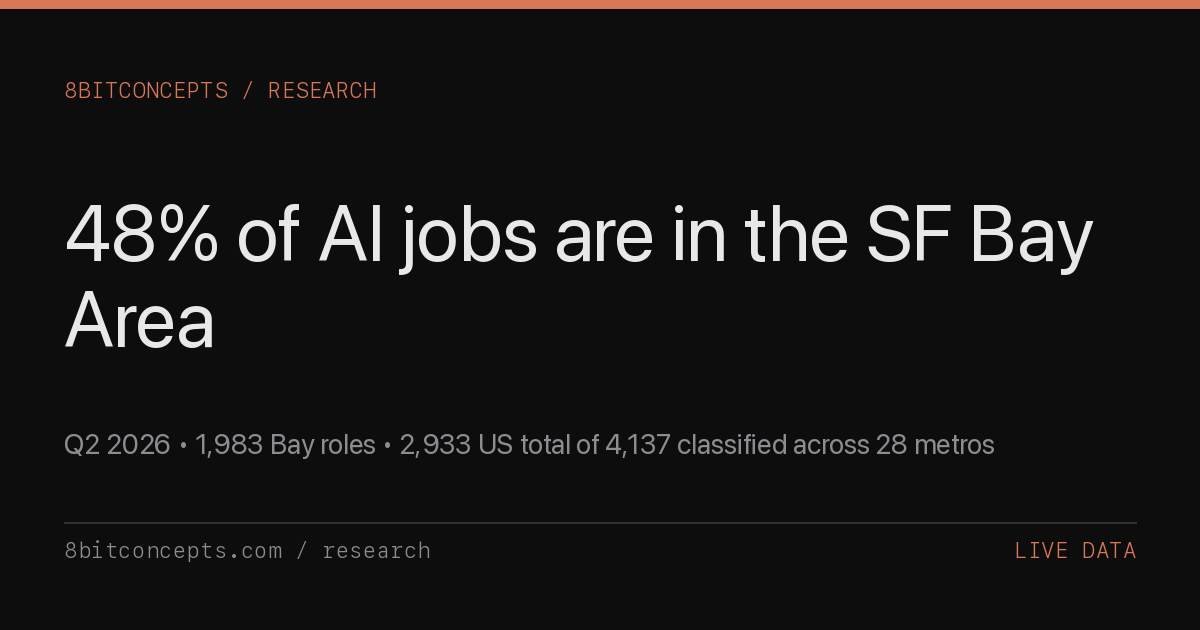
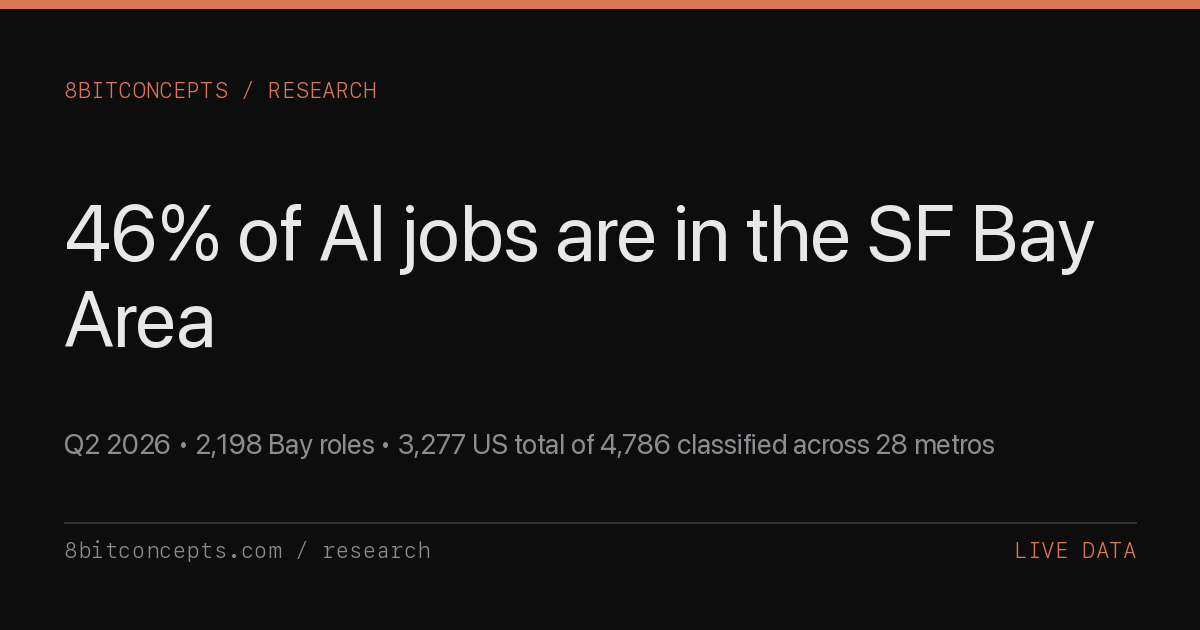
hiring-geography: auto-regenerate 2026-08-10

diff --git a/research/q2-2026-ai-hiring-geography.html b/research/q2-2026-ai-hiring-geography.html
@@ -5,11 +5,11 @@
   <meta name="viewport" content="width=device-width, initial-scale=1.0" />
   <meta name="referrer" content="strict-origin-when-cross-origin" />
   <meta name="color-scheme" content="dark light" />
-  <meta name="last-updated" content="2026-08-03" />
+  <meta name="last-updated" content="2026-08-10" />
   <title>Q2 2026 AI Hiring by Geography -- 8bitconcepts</title>
-  <meta name="description" content="Live analysis: 71% of AI/ML roles are in the US, 48% in SF Bay Area alone. European AI salaries within 3% of US median ($248,520 vs $246,494). Top 15 cities by AI role count, regional salary, remote vs onsite mix. Auto-regenerated weekly." />
+  <meta name="description" content="Live analysis: 68% of AI/ML roles are in the US, 46% in SF Bay Area alone. European AI salaries within 3% of US median ($248,520 vs $246,744). Top 15 cities by AI role count, regional salary, remote vs onsite mix. Auto-regenerated weekly." />
   <meta property="og:title" content="Q2 2026 AI Hiring by Geography -- 8bitconcepts" />
-  <meta property="og:description" content="71% of AI/ML roles are US-based. 48% in SF Bay Area. Europe AI pay within 3% of US median. 4,137 classified postings, 2026-08-03." />
+  <meta property="og:description" content="68% of AI/ML roles are US-based. 46% in SF Bay Area. Europe AI pay within 3% of US median. 4,786 classified postings, 2026-08-10." />
   <meta property="og:type" content="article" />
   <meta property="og:url" content="https://8bitconcepts.com/research/q2-2026-ai-hiring-geography.html" />
   <meta property="og:image" content="https://8bitconcepts.com/research/og/q2-2026-ai-hiring-geography.png" />
@@ -17,7 +17,7 @@
   <meta property="og:image:height" content="630" />
   <meta name="twitter:card" content="summary_large_image" />
   <meta name="twitter:title" content="Q2 2026 AI Hiring by Geography" />
-  <meta name="twitter:description" content="48% of AI/ML jobs are in the SF Bay Area. Europe pays within 3% of US median. 2026-08-03." />
+  <meta name="twitter:description" content="46% of AI/ML jobs are in the SF Bay Area. Europe pays within 3% of US median. 2026-08-10." />
   <meta name="twitter:image" content="https://8bitconcepts.com/research/og/q2-2026-ai-hiring-geography.png" />
   <link rel="canonical" href="https://8bitconcepts.com/research/q2-2026-ai-hiring-geography.html" />
   <link rel="preconnect" href="https://fonts.googleapis.com" />
@@ -478,10 +478,10 @@
     "@context": "https://schema.org",
     "@type": "Article",
     "headline": "Q2 2026 AI Hiring by Geography",
-    "description": "Live analysis of AI engineering hiring by geography from aidevboard.com: top cities, regional salary premiums, the SF/Bay Area concentration, Europe vs US salary gap, remote-vs-city mix, and actionable takeaways for job seekers and hiring managers. Across 4,137 classified postings.",
+    "description": "Live analysis of AI engineering hiring by geography from aidevboard.com: top cities, regional salary premiums, the SF/Bay Area concentration, Europe vs US salary gap, remote-vs-city mix, and actionable takeaways for job seekers and hiring managers. Across 4,786 classified postings.",
     "url": "https://8bitconcepts.com/research/q2-2026-ai-hiring-geography.html",
     "datePublished": "2026-04-17",
-    "dateModified": "2026-08-03",
+    "dateModified": "2026-08-10",
     "author": {"@type": "Organization", "name": "8bitconcepts", "url": "https://8bitconcepts.com"},
     "publisher": {"@type": "Organization", "name": "8bitconcepts", "url": "https://8bitconcepts.com"},
     "image": "https://8bitconcepts.com/research/og/q2-2026-ai-hiring-geography.png",
@@ -521,10 +521,10 @@
 
     <h1>Q2 2026 AI Hiring by Geography</h1>
 
-    <p class="subtitle">Live geographic breakdown of 4,137 location-classified AI/ML engineering roles. 71% US &mdash; 48% in the Bay Area alone. Europe pays within 3% of US median. Data derived from <a href="https://aidevboard.com/api/v1/jobs">aidevboard.com/api/v1/jobs</a>.</p>
+    <p class="subtitle">Live geographic breakdown of 4,786 location-classified AI/ML engineering roles. 68% US &mdash; 46% in the Bay Area alone. Europe pays within 3% of US median. Data derived from <a href="https://aidevboard.com/api/v1/jobs">aidevboard.com/api/v1/jobs</a>.</p>
 
     <div class="meta">
-      <span class="meta-date">2026-08-03</span>
+      <span class="meta-date">2026-08-10</span>
       <span class="meta-tag">Live Data</span>
       <span class="meta-read">~850 words</span>
     </div>
@@ -533,26 +533,26 @@
 
       <h2>Executive summary</h2>
 
-      <p><strong>71%</strong> of 4,137 location-classified AI/ML engineering roles are in the US &mdash; but European AI salaries run within 3% of US median ($248,520 vs $246,494 average for disclosed postings). <strong>48%</strong> of the whole index is concentrated in the San Francisco Bay Area alone (1,983 roles across 226 companies &mdash; Anthropic, OpenAI, Meta, Scale AI, Applied Intuition, Waymo). Remote-friendly postings are 12% of the market. Geography is destiny for AI supply; for salary it's less so.</p>
+      <p><strong>68%</strong> of 4,786 location-classified AI/ML engineering roles are in the US &mdash; but European AI salaries run within 3% of US median ($248,520 vs $246,744 average for disclosed postings). <strong>46%</strong> of the whole index is concentrated in the San Francisco Bay Area alone (2,198 roles across 228 companies &mdash; Anthropic, OpenAI, Meta, Scale AI, Applied Intuition, Waymo). Remote-friendly postings are 12% of the market. Geography is destiny for AI supply; for salary it's less so.</p>
 
       <div class="stat-row">
         <div class="stat-box">
-          <div class="stat-num">71%</div>
-          <div class="stat-label">of classified AI/ML roles are in the US (2,933 of 4,137)</div>
+          <div class="stat-num">68%</div>
+          <div class="stat-label">of classified AI/ML roles are in the US (3,277 of 4,786)</div>
         </div>
         <div class="stat-box">
-          <div class="stat-num">48%</div>
-          <div class="stat-label">of the entire index is in SF Bay Area (1,983 roles)</div>
+          <div class="stat-num">46%</div>
+          <div class="stat-label">of the entire index is in SF Bay Area (2,198 roles)</div>
         </div>
         <div class="stat-box">
-          <div class="stat-num">+0.8%</div>
+          <div class="stat-num">+0.7%</div>
           <div class="stat-label">Europe vs US average salary (disclosed postings only)</div>
         </div>
       </div>
 
       <h2>The top cities</h2>
 
-      <p>Across the 4,137 location-classified AI/ML engineering postings, the top 15 metros look like this. Role count, distinct company count, and average disclosed salary for each.</p>
+      <p>Across the 4,786 location-classified AI/ML engineering postings, the top 15 metros look like this. Role count, distinct company count, and average disclosed salary for each.</p>
 
       <table class="data-table">
         <thead>
@@ -567,21 +567,21 @@
           </tr>
         </thead>
         <tbody>
-          <tr><td>San Francisco Bay Area</td><td>US-West</td><td class="num">1,983</td><td class="num">47.9%</td><td class="num">226</td><td class="num">$263,883</td><td class="num">1,489</td></tr>
-          <tr><td>New York</td><td>US-East</td><td class="num">487</td><td class="num">11.8%</td><td class="num">107</td><td class="num">$228,418</td><td class="num">385</td></tr>
-          <tr><td>Remote (US)</td><td>Remote</td><td class="num">329</td><td class="num">8.0%</td><td class="num">83</td><td class="num">$219,098</td><td class="num">288</td></tr>
-          <tr><td>London</td><td>Europe</td><td class="num">207</td><td class="num">5.0%</td><td class="num">53</td><td class="num">$249,307</td><td class="num">14</td></tr>
-          <tr><td>Remote (Global)</td><td>Remote</td><td class="num">162</td><td class="num">3.9%</td><td class="num">54</td><td class="num">$206,498</td><td class="num">114</td></tr>
-          <tr><td>Boston</td><td>US-East</td><td class="num">159</td><td class="num">3.8%</td><td class="num">19</td><td class="num">$200,716</td><td class="num">151</td></tr>
-          <tr><td>Seattle</td><td>US-West</td><td class="num">131</td><td class="num">3.2%</td><td class="num">36</td><td class="num">$199,636</td><td class="num">109</td></tr>
-          <tr><td>Bangalore</td><td>APAC</td><td class="num">98</td><td class="num">2.4%</td><td class="num">31</td><td class="num">&mdash;</td><td class="num">0</td></tr>
-          <tr><td>Toronto</td><td>Canada</td><td class="num">83</td><td class="num">2.0%</td><td class="num">23</td><td class="num">$209,207</td><td class="num">44</td></tr>
-          <tr><td>Austin</td><td>US-South</td><td class="num">70</td><td class="num">1.7%</td><td class="num">20</td><td class="num">$191,658</td><td class="num">48</td></tr>
-          <tr><td>Singapore</td><td>APAC</td><td class="num">59</td><td class="num">1.4%</td><td class="num">23</td><td class="num">$205,000</td><td class="num">3</td></tr>
-          <tr><td>Paris</td><td>Europe</td><td class="num">56</td><td class="num">1.4%</td><td class="num">11</td><td class="num">&mdash;</td><td class="num">0</td></tr>
-          <tr><td>Washington DC</td><td>US-East</td><td class="num">44</td><td class="num">1.1%</td><td class="num">17</td><td class="num">$216,958</td><td class="num">37</td></tr>
-          <tr><td>Amsterdam</td><td>Europe</td><td class="num">38</td><td class="num">0.9%</td><td class="num">6</td><td class="num">&mdash;</td><td class="num">0</td></tr>
-          <tr><td>Berlin</td><td>Europe</td><td class="num">36</td><td class="num">0.9%</td><td class="num">12</td><td class="num">$237,500</td><td class="num">1</td></tr>
+          <tr><td>San Francisco Bay Area</td><td>US-West</td><td class="num">2,198</td><td class="num">45.9%</td><td class="num">228</td><td class="num">$264,575</td><td class="num">1,472</td></tr>
+          <tr><td>New York</td><td>US-East</td><td class="num">560</td><td class="num">11.7%</td><td class="num">117</td><td class="num">$228,418</td><td class="num">385</td></tr>
+          <tr><td>Remote (US)</td><td>Remote</td><td class="num">352</td><td class="num">7.4%</td><td class="num">87</td><td class="num">$219,098</td><td class="num">288</td></tr>
+          <tr><td>London</td><td>Europe</td><td class="num">279</td><td class="num">5.8%</td><td class="num">68</td><td class="num">$249,307</td><td class="num">14</td></tr>
+          <tr><td>Remote (Global)</td><td>Remote</td><td class="num">230</td><td class="num">4.8%</td><td class="num">67</td><td class="num">$206,096</td><td class="num">113</td></tr>
+          <tr><td>Boston</td><td>US-East</td><td class="num">169</td><td class="num">3.5%</td><td class="num">20</td><td class="num">$199,955</td><td class="num">152</td></tr>
+          <tr><td>Seattle</td><td>US-West</td><td class="num">134</td><td class="num">2.8%</td><td class="num">37</td><td class="num">$199,636</td><td class="num">109</td></tr>
+          <tr><td>Bangalore</td><td>APAC</td><td class="num">126</td><td class="num">2.6%</td><td class="num">39</td><td class="num">&mdash;</td><td class="num">0</td></tr>
+          <tr><td>Austin</td><td>US-South</td><td class="num">102</td><td class="num">2.1%</td><td class="num">23</td><td class="num">$191,658</td><td class="num">48</td></tr>
+          <tr><td>Toronto</td><td>Canada</td><td class="num">94</td><td class="num">2.0%</td><td class="num">26</td><td class="num">$209,207</td><td class="num">44</td></tr>
+          <tr><td>Singapore</td><td>APAC</td><td class="num">84</td><td class="num">1.8%</td><td class="num">27</td><td class="num">$205,000</td><td class="num">3</td></tr>
+          <tr><td>Munich</td><td>Europe</td><td class="num">51</td><td class="num">1.1%</td><td class="num">7</td><td class="num">&mdash;</td><td class="num">0</td></tr>
+          <tr><td>Washington DC</td><td>US-East</td><td class="num">50</td><td class="num">1.0%</td><td class="num">18</td><td class="num">$216,958</td><td class="num">37</td></tr>
+          <tr><td>Amsterdam</td><td>Europe</td><td class="num">50</td><td class="num">1.0%</td><td class="num">7</td><td class="num">&mdash;</td><td class="num">0</td></tr>
+          <tr><td>Hyderabad</td><td>APAC</td><td class="num">50</td><td class="num">1.0%</td><td class="num">4</td><td class="num">&mdash;</td><td class="num">0</td></tr>
         </tbody>
       </table>
 
@@ -593,27 +593,27 @@
         <div class="bar-row">
           <div class="bar-label">US</div>
           <div class="bar-wrap"><div class="bar" style="width:100.0%;"></div></div>
-          <div class="bar-value">2,933</div>
+          <div class="bar-value">3,277</div>
         </div>
         <div class="bar-row">
           <div class="bar-label">Europe</div>
-          <div class="bar-wrap"><div class="bar" style="width:13.3%;"></div></div>
-          <div class="bar-value">390</div>
+          <div class="bar-wrap"><div class="bar" style="width:15.6%;"></div></div>
+          <div class="bar-value">510</div>
         </div>
         <div class="bar-row">
           <div class="bar-label">Canada</div>
-          <div class="bar-wrap"><div class="bar" style="width:3.7%;"></div></div>
-          <div class="bar-value">109</div>
+          <div class="bar-wrap"><div class="bar" style="width:3.6%;"></div></div>
+          <div class="bar-value">119</div>
         </div>
         <div class="bar-row">
           <div class="bar-label">APAC</div>
-          <div class="bar-wrap"><div class="bar" style="width:7.3%;"></div></div>
-          <div class="bar-value">214</div>
+          <div class="bar-wrap"><div class="bar" style="width:9.1%;"></div></div>
+          <div class="bar-value">298</div>
         </div>
         <div class="bar-row">
           <div class="bar-label">Remote</div>
-          <div class="bar-wrap"><div class="bar" style="width:16.7%;"></div></div>
-          <div class="bar-value">491</div>
+          <div class="bar-wrap"><div class="bar" style="width:17.8%;"></div></div>
+          <div class="bar-value">582</div>
         </div>
       </div>
 
@@ -623,15 +623,15 @@
 
       <h2>The SF / Bay Area hub</h2>
 
-      <p>The San Francisco Bay Area alone accounts for 48% of the classified market &mdash; 1,983 AI/ML roles across 226 companies. Average disclosed salary there: $263,883. NYC is a distant second at 12% (487 roles, $228,418). Every other US metro sits in single digits. This is <em>more concentrated</em> than the general-software geography, not less &mdash; despite ten years of &quot;everyone going remote,&quot; the AI frontier is more location-bound today than it was pre-pandemic.</p>
+      <p>The San Francisco Bay Area alone accounts for 46% of the classified market &mdash; 2,198 AI/ML roles across 228 companies. Average disclosed salary there: $264,575. NYC is a distant second at 12% (560 roles, $228,418). Every other US metro sits in single digits. This is <em>more concentrated</em> than the general-software geography, not less &mdash; despite ten years of &quot;everyone going remote,&quot; the AI frontier is more location-bound today than it was pre-pandemic.</p>
 
       <h2>Europe vs US salary gap</h2>
 
-      <p>The European AI market is small but high-quality: 9% of the classified index (390 roles). Average disclosed salary $248,520 vs $246,494 for US &mdash; a gap of <strong>+0.8%</strong>. The standard narrative (&quot;European tech pays 40-60% below US&quot;) under-reads what the AI subsegment pays specifically: frontier labs pay close to parity to win ML talent, and the top band in London / Zurich / Dublin is not meaningfully lower than top-band NYC for equivalent roles. The gap widens in the mid-market, not at the top.</p>
+      <p>The European AI market is small but high-quality: 11% of the classified index (510 roles). Average disclosed salary $248,520 vs $246,744 for US &mdash; a gap of <strong>+0.7%</strong>. The standard narrative (&quot;European tech pays 40-60% below US&quot;) under-reads what the AI subsegment pays specifically: frontier labs pay close to parity to win ML talent, and the top band in London / Zurich / Dublin is not meaningfully lower than top-band NYC for equivalent roles. The gap widens in the mid-market, not at the top.</p>
 
       <h2>Remote-vs-city mix</h2>
 
-      <p>Advertised remote AI/ML roles sit at 12% of the geographically-classified sample (491 of 4,137). Average salary for those remote postings: $215,525. This is consistent with the broader pattern in <a href="/research/q2-2026-remote-vs-onsite-ai-hiring.html">our workplace analysis</a>: remote is structural but not dominant &mdash; AI/ML engineering has stayed more onsite-heavy than general software, because GPU access, data-residency requirements, and in-person research-team density still matter.</p>
+      <p>Advertised remote AI/ML roles sit at 12% of the geographically-classified sample (582 of 4,786). Average salary for those remote postings: $215,434. This is consistent with the broader pattern in <a href="/research/q2-2026-remote-vs-onsite-ai-hiring.html">our workplace analysis</a>: remote is structural but not dominant &mdash; AI/ML engineering has stayed more onsite-heavy than general software, because GPU access, data-residency requirements, and in-person research-team density still matter.</p>
 
       <h2>Why the concentration exists</h2>
 
@@ -643,7 +643,7 @@
 
       <h2>Methodology</h2>
 
-      <p>Generated by paginating the live <a href="https://aidevboard.com/api/v1/jobs">aidevboard.com/api/v1/jobs</a> endpoint (public, unauthenticated) and bucketing each job's <code>location</code> field by substring match against 28 curated city/region patterns. Total jobs pulled this cycle: 5,450 &mdash; of those 4,137 matched a city/region bucket; 1,313 did not (rare employer-specific location strings). Location strings are employer-advertised free text, not filtered for permanent residency, visa status, or actual work eligibility &mdash; a job tagged &quot;San Francisco, CA&quot; may or may not also accept remote candidates. The <code>/api/v1/stats</code> endpoint does not currently expose a <code>locations</code> array; this paper reconstructs it from per-job data. Salary averages are midpoints of disclosed <code>salary_min</code> / <code>salary_max</code> bands, restricted to the subset of jobs in each city with a disclosure &mdash; sample sizes are noted in the &quot;Salary n&quot; column. This page auto-regenerates weekly (Mon 9:30 am PT).</p>
+      <p>Generated by paginating the live <a href="https://aidevboard.com/api/v1/jobs">aidevboard.com/api/v1/jobs</a> endpoint (public, unauthenticated) and bucketing each job's <code>location</code> field by substring match against 28 curated city/region patterns. Total jobs pulled this cycle: 6,400 &mdash; of those 4,786 matched a city/region bucket; 1,614 did not (rare employer-specific location strings). Location strings are employer-advertised free text, not filtered for permanent residency, visa status, or actual work eligibility &mdash; a job tagged &quot;San Francisco, CA&quot; may or may not also accept remote candidates. The <code>/api/v1/stats</code> endpoint does not currently expose a <code>locations</code> array; this paper reconstructs it from per-job data. Salary averages are midpoints of disclosed <code>salary_min</code> / <code>salary_max</code> bands, restricted to the subset of jobs in each city with a disclosure &mdash; sample sizes are noted in the &quot;Salary n&quot; column. This page auto-regenerates weekly (Mon 9:30 am PT).</p>
 
       <p><strong>Download raw data:</strong> The per-city + per-region dataset is mirrored as a public gist &mdash; <a href="https://gist.githubusercontent.com/unitedideas/885ce2f294693190179f48327b7275dd/raw/ai-hiring-geography.csv">CSV</a> &middot; <a href="https://gist.githubusercontent.com/unitedideas/885ce2f294693190179f48327b7275dd/raw/ai-hiring-geography.md">Markdown</a> &middot; <a href="https://gist.github.com/unitedideas/885ce2f294693190179f48327b7275dd">view on GitHub</a>. Auto-updated every weekly regeneration; canonical raw URLs are stable across revisions.</p>
 
@@ -693,9 +693,9 @@
     <div class="footnotes">
       <h4>Sources</h4>
       <ol>
-        <li>AI Dev Jobs &mdash; <a href="https://aidevboard.com/api/v1/jobs">/api/v1/jobs</a>, paginated walk pulled 2026-08-03T16:30:04Z. Public unauthenticated endpoint.</li>
+        <li>AI Dev Jobs &mdash; <a href="https://aidevboard.com/api/v1/jobs">/api/v1/jobs</a>, paginated walk pulled 2026-08-10T16:30:06Z. Public unauthenticated endpoint.</li>
         <li>AI Dev Jobs &mdash; <a href="https://aidevboard.com/api/v1/stats">/api/v1/stats</a> for top-line overview totals.</li>
-        <li>City/region bucketing is a substring match on the employer-advertised <code>location</code> field against 28 curated patterns; the <code>/api/v1/stats</code> endpoint does not currently expose a <code>locations</code> array. Jobs matching no bucket (1,313 this cycle) are excluded from percentages but preserved in the raw data.</li>
+        <li>City/region bucketing is a substring match on the employer-advertised <code>location</code> field against 28 curated patterns; the <code>/api/v1/stats</code> endpoint does not currently expose a <code>locations</code> array. Jobs matching no bucket (1,614 this cycle) are excluded from percentages but preserved in the raw data.</li>
         <li>Salary figures are midpoints of employer-advertised <code>salary_min</code> / <code>salary_max</code> bands, restricted to the subset in each city with a disclosure.</li>
       </ol>
     </div>
